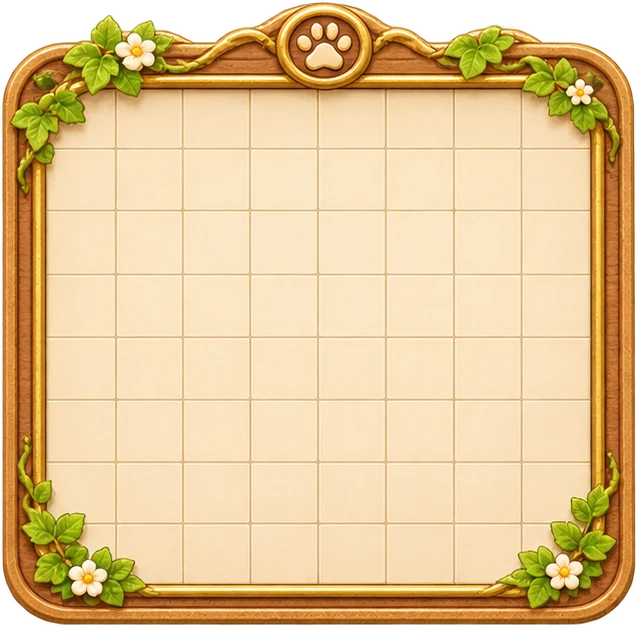
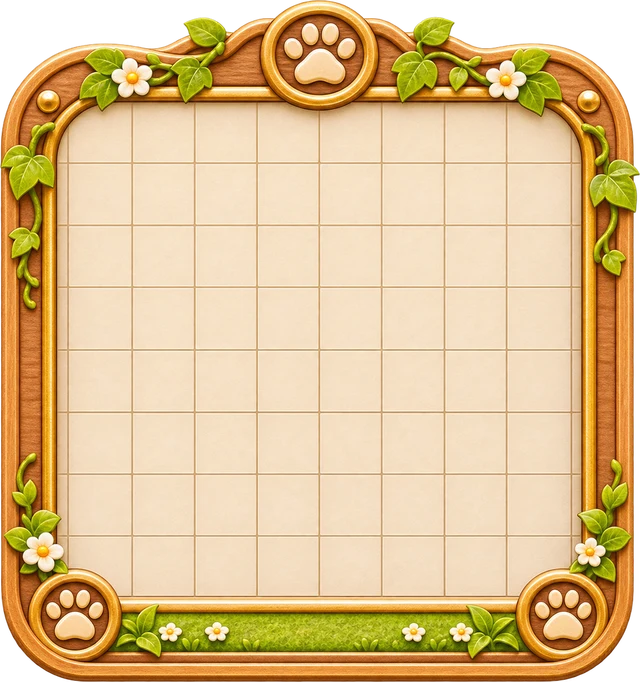
なかよしミラー: ナチュラル・レトロ盤面差し替え、床の線をマスに合わせる、30ステージに絞って難しく
Claude-Session: https://claude.ai/code/session_01C8PtLB3LUJopB3xqJkoRPg

diff --git a/binary/index.html b/binary/index.html
@@ -127,12 +127,12 @@ body:is([data-vt=retro],[data-vt=neon]) .lsBtn{background:rgba(255,255,255,.08);
 .qg button.ok{background:#eef5e6;border-color:#9dbb8a}.qg button.cur{box-shadow:0 0 0 2px #f0b429}.qg button.lk{opacity:.45;cursor:default;background:#f1e8d8}.qg button.hd{color:#b5452f}
 body:is([data-vt=retro],[data-vt=neon]) .qg button{background:rgba(255,255,255,.08);color:inherit;border-color:rgba(255,255,255,.25)}
 body:is([data-vt=retro],[data-vt=neon]) .qg button.ok{background:rgba(120,200,120,.25)}
-body .bwrap{aspect-ratio:634/623;background-image:url(../img/bn/natural_board.webp)}body #bd{top:13.3%;right:7.2%;bottom:5.6%;left:7.0%}
-body .ce{background-image:none}body #bd{background:#a9cf72;border-radius:6px;box-shadow:inset 0 0 8px rgba(60,90,20,.3)}body .ce.heart{background-image:url(../img/bn/natural_heart.webp)}body .ce.gc,body .ce.gm{background-image:url(../img/bn/natural_goal.webp)}body .ce.mcol{background-image:url(../img/bn/natural_col.webp);border-radius:0}
+body .bwrap{aspect-ratio:1158/1234;background-image:url(../img/bn/natural_board.webp)}body #bd{top:14.7%;right:9.2%;bottom:12.4%;left:8.9%}
+body .ce{background-image:none}body #bd{background-color:#f4e4c4;background-image:linear-gradient(90deg,rgba(196,146,86,.6) 1px,transparent 1px),linear-gradient(rgba(196,146,86,.6) 1px,transparent 1px);background-size:calc(100% / 9) calc(100% / 8);background-position:-1px -1px;gap:0;border-radius:3px;box-shadow:inset 0 0 0 1px rgba(196,146,86,.6),inset 0 0 10px rgba(120,80,30,.18)}body .ce.heart{background-image:url(../img/bn/natural_heart.webp)}body .ce.gc,body .ce.gm{background-image:url(../img/bn/natural_goal.webp)}body .ce.mcol{background-image:url(../img/bn/natural_col.webp);border-radius:0}
 body .ce.w.v0{background-image:url(../img/bn/natural_w0.webp)}body .ce.w.v1{background-image:url(../img/bn/natural_w1.webp)}body .ce.w.v2{background-image:url(../img/bn/natural_w2.webp)}body .ce.w.v3{background-image:url(../img/bn/natural_w0.webp)}
 body .dog.c{background-image:url(../img/bn/natural_colon.webp)!important}body .dog.m{background-image:url(../img/bn/natural_moon.webp)!important}body .pad button[data-d=u]{background-image:url(../img/bn/natural_up.webp)!important}body .pad button[data-d=d]{background-image:url(../img/bn/natural_down.webp)!important}body .pad button[data-d=l]{background-image:url(../img/bn/natural_left.webp)!important}body .pad button[data-d=r]{background-image:url(../img/bn/natural_right.webp)!important}body .pad button#bNext{background-image:url(../img/bn/natural_btn.webp)!important}
-body[data-vt=retro] .bwrap{aspect-ratio:616/640;background-image:url(../img/bn/retro_board.webp)}body[data-vt=retro] #bd{top:19.4%;right:9.6%;bottom:10.6%;left:10.2%}
-body[data-vt=retro] .ce{background-image:none}body[data-vt=retro] #bd{background:#e8d2a4;border-radius:4px;box-shadow:inset 0 0 8px rgba(90,40,10,.35)}body[data-vt=retro] .ce.heart{background-image:url(../img/bn/retro_heart.webp)}body[data-vt=retro] .ce.gc,body[data-vt=retro] .ce.gm{background-image:url(../img/bn/retro_goal.webp)}body[data-vt=retro] .ce.mcol{background-image:url(../img/bn/retro_col.webp);border-radius:0}
+body[data-vt=retro] .bwrap{aspect-ratio:1156/1230;background-image:url(../img/bn/retro_board.webp)}body[data-vt=retro] #bd{top:16%;right:10.4%;bottom:12.6%;left:10.6%}
+body[data-vt=retro] .ce{background-image:none}body[data-vt=retro] #bd{background-color:#f1dcb2;background-image:linear-gradient(90deg,rgba(160,84,34,.6) 1px,transparent 1px),linear-gradient(rgba(160,84,34,.6) 1px,transparent 1px);background-size:calc(100% / 9) calc(100% / 8);background-position:-1px -1px;gap:0;border-radius:3px;box-shadow:inset 0 0 0 1px rgba(160,84,34,.6),inset 0 0 10px rgba(90,40,10,.22)}body[data-vt=retro] .ce.heart{background-image:url(../img/bn/retro_heart.webp)}body[data-vt=retro] .ce.gc,body[data-vt=retro] .ce.gm{background-image:url(../img/bn/retro_goal.webp)}body[data-vt=retro] .ce.mcol{background-image:url(../img/bn/retro_col.webp);border-radius:0}
 body[data-vt=retro] .ce.w.v0{background-image:url(../img/bn/retro_f1.webp)}body[data-vt=retro] .ce.w.v1{background-image:url(../img/bn/retro_f2.webp)}body[data-vt=retro] .ce.w.v2{background-image:url(../img/bn/retro_w1.webp)}body[data-vt=retro] .ce.w.v3{background-image:url(../img/bn/retro_w2.webp)}
 body[data-vt=retro] .dog.c{background-image:url(../img/bn/retro_colon.webp)!important}body[data-vt=retro] .dog.m{background-image:url(../img/bn/retro_moon.webp)!important}body[data-vt=retro] .pad button[data-d=u]{background-image:url(../img/bn/retro_up.webp)!important}body[data-vt=retro] .pad button[data-d=d]{background-image:url(../img/bn/retro_down.webp)!important}body[data-vt=retro] .pad button[data-d=l]{background-image:url(../img/bn/retro_left.webp)!important}body[data-vt=retro] .pad button[data-d=r]{background-image:url(../img/bn/retro_right.webp)!important}body[data-vt=retro] .pad button#bNext{background-image:url(../img/bn/retro_btn.webp)!important}
 body[data-vt=neon] .bwrap{aspect-ratio:1114/1209;background-image:url(../img/bn/neon_board.webp)}body[data-vt=neon] #bd{top:22%;right:8.6%;bottom:12.2%;left:8.5%}
@@ -280,7 +280,7 @@ html body[data-vt=neon] .app .vtBtn{background-image:url(../img/ui/neon_skin.web
   <div class="header" id="header"><div class="bubble" id="bubB"></div><div class="bubble" id="bubW"></div><div class="gTitle">なかよしミラー</div></div>
 
   <div class="hud"><div class="box"><small>ステージ</small><b id="stN"></b></div><div class="box"><small>手数</small><b id="mv">0</b></div><div class="box"><small>最短</small><b id="best"></b></div></div>
-  <button class="lsBtn" id="bList">📋 ステージ一覧（全60）</button>
+  <button class="lsBtn" id="bList">📋 ステージ一覧（全30）</button>
   <div class="panel bpn"><div class="in"><div class="bwrap"><div id="bd"></div></div></div></div>
   <div class="legend"><span><i class="dog c"></i>コロン：ボタンと同じ向き</span><span><i class="dog m"></i>ムーン：左右が反対</span></div>
   <div class="pad"><button class="u" data-d="u">▲</button><button class="l" data-d="l">◀</button><button class="c" id="bNext">つぎ ▶</button><button class="r" data-d="r">▶</button><button class="d" data-d="d">▼</button></div>
@@ -291,7 +291,7 @@ html body[data-vt=neon] .app .vtBtn{background-image:url(../img/ui/neon_skin.web
 <div class="modal" id="mHelp"><div class="card help"><h2>📖 なかよしミラー</h2><p>コロン（左）とムーン（右）を<b>同時に</b>動かして、まんなかのハート💗の両どなり💕へ連れていこう！</p>
 <p>⬆⬇ 上下はふたりとも同じ向き。⬅➡ 左右は<b>ムーンだけ反対</b>に動きます。</p>
 <p>🌳 しげみにぶつかったワンコはその場で止まるよ。これを使ってふたりの位置をそろえよう。</p>
-<p>ふたりが<b>同時に</b>💕に着いたらクリア！最短手数でクリアすると★3つ。</p><p>📋 全60ステージ。やさしい順にならんでいて、クリアすると次のステージがひらきます（記録は自動で保存）。46番からは上級！</p>
+<p>ふたりが<b>同時に</b>💕に着いたらクリア！最短手数でクリアすると★3つ。</p><p>📋 全30ステージ。やさしい順にならんでいて、クリアすると次のステージがひらきます（記録は自動で保存）。21番からは上級！</p>
   <div class="tg"><span>効果音</span><div class="sw" data-k="sound"></div></div>
   <div class="tg"><span>ワンコのおしゃべり</span><div class="sw" data-k="talk"></div></div>
   <div class="acts"><button class="btn g" data-close="mHelp">わかった！</button></div></div></div>
@@ -392,11 +392,11 @@ function keys(cb){ addEventListener('keydown',e=>{const k={ArrowUp:'u',ArrowDown
 function lvRow(el,names,cur,starsOf,onPick){ el.innerHTML=names.map((n,i)=>`<button data-i="${i}" class="${i===cur?'on':''}">${n}${starsOf&&starsOf(i)?'<i>'+'★'.repeat(starsOf(i))+'</i>':''}</button>`).join('');
   el.querySelectorAll('button').forEach(b=>b.onclick=()=>{actx();SFX.tap();onPick(+b.dataset.i)}); const on=el.querySelector('.on'); if(on) on.scrollIntoView({inline:'center',block:'nearest'}); }
 if(!store.get('seen')){ store.set('seen',1); setTimeout(()=>openM('mHelp'),400); }
-const LV=[{"d": 5, "g": "011010111100010000010010110001010111111010001000010010100011110000011100", "c": 48, "m": 50}, {"d": 5, "g": "001010100110010100000010000001010100000010001001010000001010110011010000", "c": 48, "m": 50}, {"d": 5, "g": "000010000011010000010010100000010100110010000000010000000010000001010110", "c": 48, "m": 50}, {"d": 6, "g": "011010010101010011010010010010011001100111010100110011001010100000111001", "c": 47, "m": 51}, {"d": 6, "g": "000010100011010000000010100000010000100110000000011011000011000010111010", "c": 47, "m": 51}, {"d": 6, "g": "000010000010010010000010010100110010000010100000110110000010000000011000", "c": 47, "m": 50}, {"d": 7, "g": "100010011111010111010010111000010010001110111000010100101111111011010100", "c": 46, "m": 50}, {"d": 7, "g": "100010000001110100000011000000010001000010001101010000000010100100110101", "c": 46, "m": 52}, {"d": 7, "g": "101010100001010000010010110010010000100010001000010000010010000000010000", "c": 57, "m": 68}, {"d": 7, "g": "000010100000010000000010000000110010100010000000110000110010010000010001", "c": 46, "m": 50}, {"d": 8, "g": "110010111101010000010010001110010001000111001011110100111111110011010101", "c": 45, "m": 52}, {"d": 8, "g": "000010011010010010000110010000011000010011000110010000010010010000011000", "c": 65, "m": 69}, {"d": 8, "g": "000010100000010100000010100001010100011010111000010000000010000000010100", "c": 66, "m": 60}, {"d": 8, "g": "000010010000010000001010001001010000001010001000010000001010001000011000", "c": 66, "m": 69}, {"d": 9, "g": "010010111101010011110010100011010011001010011110010010111111010110110000", "c": 47, "m": 68}, {"d": 9, "g": "000010010000010010001111010000010000010010011100010101000010000100010001", "c": 56, "m": 59}, {"d": 9, "g": "010010000000010001000010010110010100100010001000010100000110010100010000", "c": 66, "m": 50}, {"d": 9, "g": "000010000000010000010010010100010000001010100000010000101010100000010110", "c": 66, "m": 52}, {"d": 10, "g": "100010111010110101100010011111010001000010011110111011100010011010111001", "c": 55, "m": 51}, {"d": 10, "g": "010010000000010001100010111100110000100110000001011000000010100000010001", "c": 63, "m": 70}, {"d": 10, "g": "000010111101010000000010001000110001000010000000010000000110100010011000", "c": 47, "m": 69}, {"d": 10, "g": "000010000110010001000010001000110000101010100000010001000010000000110000", "c": 45, "m": 70}, {"d": 11, "g": "010010011100110001001110111010110100001010010001011011111110011101110011", "c": 46, "m": 51}, {"d": 11, "g": "000010000000110001100011011000010000101011100101010000000110001000111000", "c": 65, "m": 71}, {"d": 11, "g": "010010000000010000100011010001110100100110000001110101000010000000110000", "c": 64, "m": 52}, {"d": 11, "g": "001010010000010011000110001100110000001010000000010010000110000000110000", "c": 64, "m": 70}, {"d": 12, "g": "010010011101011011011011001101011100110011101000111101010111001001111000", "c": 63, "m": 70}, {"d": 12, "g": "000010110110010100000110001001110000000010100000010000101010010001111001", "c": 55, "m": 70}, {"d": 12, "g": "000010000000110001100011001000111100000010010100110010010010000100010001", "c": 66, "m": 69}, {"d": 12, "g": "000010000000010011000010111000010000000011000100110100010011010000010010", "c": 63, "m": 71}, {"d": 13, "g": "110010000011011110110011000110111000100010101101111101101011100111010010", "c": 46, "m": 71}, {"d": 13, "g": "000010100000010101100010010100010000000111110011010000011111001000011000", "c": 63, "m": 50}, {"d": 13, "g": "000010000010010000000111100000010001001110100101111001100110001000010000", "c": 63, "m": 69}, {"d": 13, "g": "000010000010010100001111000101110010001010100100111000001010000000010000", "c": 66, "m": 69}, {"d": 14, "g": "101010111111010101001010010111011010010010010100110100101010001101110100", "c": 64, "m": 71}, {"d": 14, "g": "000010001010110100001011001011110000000010101101010100100111010000010000", "c": 66, "m": 50}, {"d": 14, "g": "000010001000010100001110101001010011000010000010010010100011000000111011", "c": 63, "m": 69}, {"d": 14, "g": "000010010011010011101011000000011100001010000010011000000010100001010000", "c": 64, "m": 68}, {"d": 15, "g": "001010001100011100010011100000110100100111110101111000111111011110110010", "c": 46, "m": 68}, {"d": 15, "g": "010010011000010110011010001000111000000010000000110000000111100110011001", "c": 66, "m": 69}, {"d": 15, "g": "101010000011010100000010010011010100000010100011110000000010111000010000", "c": 66, "m": 70}, {"d": 16, "g": "111010011111011000101010011110011001011010101001011000011010010000010011", "c": 45, "m": 68}, {"d": 16, "g": "000010001001110001000011101100010000000110011101010101101010001000010100", "c": 65, "m": 71}, {"d": 16, "g": "000010000000011010110011100101011010010011000100011000101010010000010000", "c": 63, "m": 69}, {"d": 17, "g": "011010111010010110000110101001010111010010111000110110100010000100110100", "c": 64, "m": 71}, {"d": 17, "g": "100010000010010100101011110110011100001010001000010001010010000010110100", "c": 63, "m": 68}, {"d": 17, "g": "100010110000110000010010001000011101001010101010010000100110100000010001", "c": 63, "m": 68}, {"d": 18, "g": "001010110011010000110011110110011000100010011100110011001010110001010001", "c": 63, "m": 70}, {"d": 18, "g": "011010000100010100010010110100010010110011110001010010110011000000010000", "c": 63, "m": 68}, {"d": 18, "g": "000010001000110000001010100000011001100010011101110101001010001000011000", "c": 66, "m": 69}, {"d": 19, "g": "011010011100011010000110000000010000011110111000110010110111010101011000", "c": 56, "m": 53}, {"d": 19, "g": "100010011011010001100010000001010000010110010010110111010010010000011000", "c": 57, "m": 71}, {"d": 19, "g": "001010001010011001000010001001110110001010010000110110011010100000010000", "c": 66, "m": 70}, {"d": 20, "g": "100010011100010011001011000010111110000010010110011010111010010000011000", "c": 65, "m": 69}, {"d": 20, "g": "010010110000010100011110000000110010110010000001011100110010010100011000", "c": 64, "m": 69}, {"d": 20, "g": "011010000111011100100010001000010100000110000011010011010011000000110000", "c": 48, "m": 71}, {"d": 21, "g": "000010100000110101011110000000011100100011110010110100010110100000010001", "c": 45, "m": 68}, {"d": 21, "g": "000010000011011101000111100010011000100011100010010110010010010000110000", "c": 64, "m": 59}, {"d": 21, "g": "000010111010110011100011000000011010001010110100010010010010100000110000", "c": 63, "m": 50}, {"d": 22, "g": "000010100111010000110010110000011000000010000000110011001010100100010000", "c": 66, "m": 62}];
+const LV=[{"d": 8, "g": "110010111101010000010010001110010001000111001011110100111111110011010101", "c": 45, "m": 52}, {"d": 11, "g": "010010011100110001001110111010110100001010010001011011111110011101110011", "c": 46, "m": 51}, {"d": 14, "g": "101010111111010101001010010111011010010010010100110100101010001101110100", "c": 64, "m": 71}, {"d": 17, "g": "011010111010010110000110101001010111010010111000110110100010000100110100", "c": 64, "m": 71}, {"d": 19, "g": "100010110000110000001111111010010001001111011010011110011010111000011110", "c": 47, "m": 17}, {"d": 21, "g": "000010100011010010000111000101110100101110010001011111010011000000011011", "c": 48, "m": 7}, {"d": 22, "g": "001010000001011010000011100001011001001111011010111000000010100110010000", "c": 66, "m": 59}, {"d": 23, "g": "100010000011011100011011010000011000001110011011010110011010100010010001", "c": 63, "m": 53}, {"d": 24, "g": "010010000010011110100110100001010001011010011000010110001110100010110000", "c": 30, "m": 53}, {"d": 25, "g": "000010000111011110110010000110010010000110011001010010011010100000010000", "c": 57, "m": 62}, {"d": 26, "g": "101010000001010110101011110001011110010010100001010100101010001000011110", "c": 1, "m": 59}, {"d": 27, "g": "010010100101010000100011110101110000001110111011010110001010100000010000", "c": 48, "m": 53}, {"d": 28, "g": "000010000011110010010010100011111000010011011010010010001010100100010001", "c": 39, "m": 53}, {"d": 28, "g": "100010101101110011100111011010010000010011101001010100010010010000010000", "c": 27, "m": 50}, {"d": 29, "g": "100010011100110100001110000010010110011011000010010001011010110000010000", "c": 29, "m": 62}, {"d": 29, "g": "100010000000110110110011000111010011000010100011110110001010010000011000", "c": 57, "m": 43}, {"d": 30, "g": "110010111000110001011011100000010010101010010011010010011010110000010000", "c": 45, "m": 33}, {"d": 30, "g": "100010000001111110101010100001011001101010011001010100010010010000010000", "c": 39, "m": 52}, {"d": 31, "g": "010010110000110100011110000000111110110010010001010110011010110000010000", "c": 46, "m": 41}, {"d": 31, "g": "010010010100110111001010000010010110010111000010010011001010100100010001", "c": 21, "m": 62}, {"d": 32, "g": "000010010011011000000111001110011100001010010011010110010010010000010000", "c": 37, "m": 41}, {"d": 33, "g": "000010100011110110000010110111010010000010100011110110001010100000010000", "c": 57, "m": 7}, {"d": 34, "g": "001010000001010000001010110010011010010110010010010010001010100000010000", "c": 1, "m": 51}, {"d": 35, "g": "000010100011110110001010010010010110011010110011010110001010100100010001", "c": 29, "m": 7}, {"d": 36, "g": "000010100011010010001010100101110101001010100011010110001010100100010001", "c": 48, "m": 7}, {"d": 37, "g": "001010000010011110010110010010011010011010010011010110000010110111110000", "c": 9, "m": 23}, {"d": 38, "g": "000010100011110010010111010010010010010010010011010110001010100000010000", "c": 20, "m": 7}, {"d": 39, "g": "000010100011110100010010010010111010010010010010010010001010100000010000", "c": 21, "m": 16}, {"d": 40, "g": "001010000001011100011010110010010010010111010010010010001010100100010001", "c": 1, "m": 23}, {"d": 40, "g": "010010001010111100010010010001010100101010101001010100011010110000010000", "c": 0, "m": 23}];
 const W=9,H=8;
-const P=Object.assign({cur:0,stars:{}},store.get('prog60',{}));
+const P=Object.assign({cur:0,stars:{}},store.get('prog30',{}));
 let g,c,m,gc=3,gm=5,mv=0,hist=[],done=false;
-function load(i){ P.cur=i; store.set('prog60',P); const L=LV[i]; g=L.g.split('').map(Number); c=L.c; m=L.m; mv=0; hist=[]; done=false;
+function load(i){ P.cur=i; store.set('prog30',P); const L=LV[i]; g=L.g.split('').map(Number); c=L.c; m=L.m; mv=0; hist=[]; done=false;
   $('stN').textContent=(i+1)+'/'+LV.length; $('best').textContent=L.d; 
   draw(); setStatus('ふたりを💕へ連れていこう'); setTimeout(()=>{sayText(1,'いっしょに行こう！');setTimeout(()=>sayText(2,'ムーンは反対に動くよ♪'),500)},300); }
 function draw(){ const bd=$('bd'); bd.innerHTML=''; const mc=document.createElement('div'); mc.className='ce mcol'; bd.appendChild(mc);
@@ -408,7 +408,7 @@ function mvp(p,dx,dy){ const x=p%W+dx,y=((p/W)|0)+dy; if(x<0||x>=W||y<0||y>=H) r
 function step(d){ if(done) return; actx(); const [dx,dy]={l:[-1,0],r:[1,0],u:[0,-1],d:[0,1]}[d];
   const nc=mvp(c,dx,dy), nm=mvp(m,-dx,dy); if(nc===c&&nm===m){SFX.ng();return;}
   hist.push([c,m]); c=nc; m=nm; mv++; SFX.tap(); draw();
-  if(c===gc&&m===gm){ done=true; const L=LV[P.cur]; const s=mv<=L.d?3:mv<=L.d*1.5?2:1; P.stars[P.cur]=Math.max(P.stars[P.cur]||0,s); store.set('prog60',P);
+  if(c===gc&&m===gm){ done=true; const L=LV[P.cur]; const s=mv<=L.d?3:mv<=L.d*1.5?2:1; P.stars[P.cur]=Math.max(P.stars[P.cur]||0,s); store.set('prog30',P);
     report('clear',{stars:s}); SFX.win(); confetti(['💕','🐾','✨']); sayText(1,'やったね！',true); sayText(2,'なかよし〜♪',true); setStatus('クリア！'); draw();
     showResult({winner:0,title:'💕 ステージ'+(P.cur+1)+' クリア！',score:mv+'手',msg:'★'.repeat(s)+'☆'.repeat(3-s),rec:'最短：'+L.d+'手'}); } }
 $('bUndo').onclick=()=>{ if(!hist.length) return; [c,m]=hist.pop(); mv--; done=false; SFX.tap(); draw(); };
@@ -416,7 +416,7 @@ $('bReset').onclick=()=>{actx();SFX.tap();load(P.cur)}; $('bNext').onclick=()=>l
 $('bAgain').textContent='つぎのステージ'; $('bAgain').onclick=()=>{closeM('mRes');load(Math.min(P.cur+1,LV.length-1))};
 const isDone=i=>!!P.stars[i], unlocked=i=>i===0||isDone(i-1)||isDone(i);
 function listM(){ const tot=LV.reduce((a,_,i)=>a+(P.stars[i]||0),0); $('lsSum').textContent='★ '+tot+' / '+LV.length*3;
-  $('qg').innerHTML=LV.map((L,i)=>{ const u=unlocked(i); return `<button data-i="${i}" class="${isDone(i)?'ok':''} ${u?'':'lk'} ${i===P.cur?'cur':''} ${i>=45?'hd':''}">${u?'':'🔒'}${i+1}<small>${u?(P.stars[i]?'★'.repeat(P.stars[i]):'最短'+L.d+'手'):'？'}</small></button>`; }).join('');
+  $('qg').innerHTML=LV.map((L,i)=>{ const u=unlocked(i); return `<button data-i="${i}" class="${isDone(i)?'ok':''} ${u?'':'lk'} ${i===P.cur?'cur':''} ${i>=20?'hd':''}">${u?'':'🔒'}${i+1}<small>${u?(P.stars[i]?'★'.repeat(P.stars[i]):'最短'+L.d+'手'):'？'}</small></button>`; }).join('');
   $('qg').querySelectorAll('button').forEach(b=>b.onclick=()=>{ const i=+b.dataset.i; if(!unlocked(i)){toast('前のステージをクリアするとあくよ');return} actx();SFX.tap();closeM('mList');load(i); }); }
 $('bList').onclick=()=>{actx();SFX.tap();listM();openM('mList')};
 if(!unlocked(P.cur)) P.cur=0;

diff --git a/sw.js b/sw.js
@@ -1,5 +1,5 @@
 // オフライン対応（ページは最新を優先、画像などはキャッシュを優先）
-const V='gc-v37';
+const V='gc-v38';
 const CORE=['./','index.html','coins.js','backup.js','manifest.webmanifest','icons/icon-192.png',
  ...['reversi','shogi','wanko','gomoku','memory','escape','rings','peg','slide','hanoi'].map(g=>g+'/')];
 self.addEventListener('install',e=>{e.waitUntil(caches.open(V).then(c=>c.addAll(CORE)).then(()=>self.skipWaiting()))});
